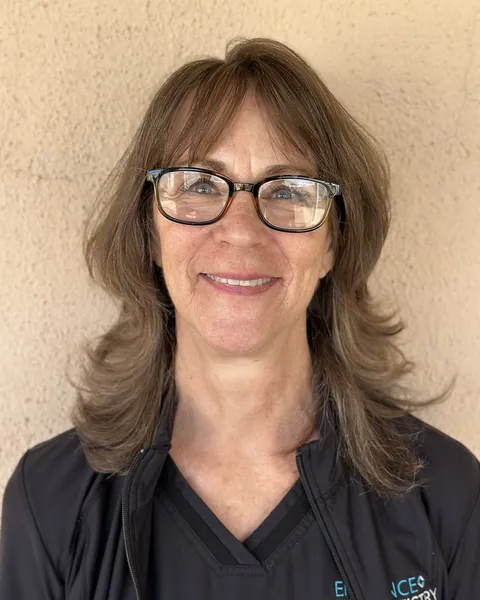
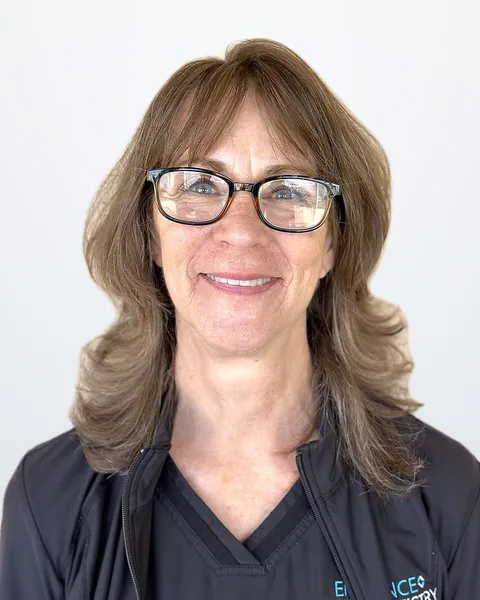
Team: three doctors in one row; rebuild with the retouched photos (stale image cache cleared)
Claude-Session: https://claude.ai/code/session_01VCZcNGLGEeznXAmsuok5gN

diff --git a/es/our-team/index.html b/es/our-team/index.html
@@ -36,7 +36,7 @@
 </header>
 <main id="main">
 <section class="phead"><div class="wrap"><nav aria-label="Ruta de navegación" class="crumbs"><ol><li><a href="/es/">Inicio</a></li><li aria-current="page">Nuestro equipo</li></ol></nav><div class="phead-row"><div><h1>Conozca a nuestro equipo</h1><p class="phead-sub">Un consultorio familiar en Main Street en St. George.</p></div>
-<div class="ph-acts"><a class="btn btn-book" href="/book"><svg aria-hidden="true" class="ic" fill="none" stroke="currentColor" stroke-linecap="round" stroke-linejoin="round" stroke-width="1.6" viewbox="0 0 24 24"><rect height="15" rx="1.5" width="17" x="3.5" y="5"></rect><path d="M3.5 10h17M8 3v4M16 3v4"></path></svg>Agendar en línea</a><a class="btn btn-line" href="tel:+14356282667"><svg aria-hidden="true" class="ic" fill="none" stroke="currentColor" stroke-linecap="round" stroke-linejoin="round" stroke-width="1.6" viewbox="0 0 24 24"><path d="M6.6 10.8a15.1 15.1 0 0 0 6.6 6.6l2.2-2.2a1 1 0 0 1 1-.25 11.4 11.4 0 0 0 3.6.57 1 1 0 0 1 1 1V20a1 1 0 0 1-1 1A17 17 0 0 1 3 4a1 1 0 0 1 1-1h3.5a1 1 0 0 1 1 1c0 1.25.2 2.45.57 3.57a1 1 0 0 1-.25 1z"></path></svg>(435) 628-2667</a></div></div></div></section><div class="wrap staff"><div class="doc-grid"><article class="doc doc-main"><div class="doc-ph"><img alt="El Dr. Mark Ence, dentista en Ence Dentistry" decoding="async" height="1125" loading="lazy" sizes="(max-width: 760px) 90vw, 360px" src="/assets/img/team-dr-mark-4x5-900.webp" srcset="/assets/img/team-dr-mark-4x5-480.webp 480w, /assets/img/team-dr-mark-4x5-900.webp 900w" width="900"/></div><div class="doc-body"><h3>Dr. Mark Ence, DDS</h3><p class="role">Dentista</p><p>Creció en Santa Clara, se graduó de Snow Canyon High y regresó a St. George para ejercer en Main Street.</p><a class="link" href="/es/dr-mark-ence/">Conozca al Dr. Mark <svg aria-hidden="true" class="ic arr" fill="none" stroke="currentColor" stroke-linecap="round" stroke-linejoin="round" stroke-width="1.6" viewbox="0 0 24 24"><path d="M5 12h14M13 6l6 6-6 6"></path></svg></a></div></article><div class="doc-more"><article class="doc"><div class="doc-ph"><img alt="El Dr. Jim Ence, dentista en Ence Dentistry" decoding="async" height="1125" loading="lazy" sizes="(max-width: 760px) 90vw, 360px" src="/assets/img/team-dr-jim-4x5-900.webp" srcset="/assets/img/team-dr-jim-4x5-480.webp 480w, /assets/img/team-dr-jim-4x5-900.webp 900w" width="900"/></div><div class="doc-body"><h3>Dr. Jim Ence</h3><p class="role">Dentista</p><p>Padre del Dr. Mark. El Dr. Mark ha disfrutado trabajar a su lado en este consultorio.</p></div></article><article class="doc"><div class="doc-ph"><img alt="El Dr. Woodrow Wagner, dentista en Ence Dentistry" decoding="async" height="1125" loading="lazy" sizes="(max-width: 760px) 90vw, 360px" src="/assets/img/team-dr-wagner-4x5-900.webp" srcset="/assets/img/team-dr-wagner-4x5-480.webp 480w, /assets/img/team-dr-wagner-4x5-900.webp 900w" width="900"/></div><div class="doc-body"><h3>Dr. Woodrow Wagner, DMD</h3><p class="role">Dentista</p><p>El Dr. Woodrow W. Wagner se graduó de Oregon Health Sciences University con su título de DMD en 1989. Ejerció en su ciudad natal, Las Vegas, Nevada, durante siete años antes de mudarse con su familia a Santa Clara, Utah, en 1996. Desde entonces ha tenido una estrecha relación de trabajo con el Dr. Jim Ence y el Dr. Mark Ence, y se siente muy contento de continuar esa colaboración ahora en Ence Dentistry.</p></div></article></div></div></div>
+<div class="ph-acts"><a class="btn btn-book" href="/book"><svg aria-hidden="true" class="ic" fill="none" stroke="currentColor" stroke-linecap="round" stroke-linejoin="round" stroke-width="1.6" viewbox="0 0 24 24"><rect height="15" rx="1.5" width="17" x="3.5" y="5"></rect><path d="M3.5 10h17M8 3v4M16 3v4"></path></svg>Agendar en línea</a><a class="btn btn-line" href="tel:+14356282667"><svg aria-hidden="true" class="ic" fill="none" stroke="currentColor" stroke-linecap="round" stroke-linejoin="round" stroke-width="1.6" viewbox="0 0 24 24"><path d="M6.6 10.8a15.1 15.1 0 0 0 6.6 6.6l2.2-2.2a1 1 0 0 1 1-.25 11.4 11.4 0 0 0 3.6.57 1 1 0 0 1 1 1V20a1 1 0 0 1-1 1A17 17 0 0 1 3 4a1 1 0 0 1 1-1h3.5a1 1 0 0 1 1 1c0 1.25.2 2.45.57 3.57a1 1 0 0 1-.25 1z"></path></svg>(435) 628-2667</a></div></div></div></section><div class="wrap staff"><div class="tm-grid doc-row"><article class="tm"><div class="tm-ph"><img alt="El Dr. Mark Ence, dentista en Ence Dentistry" decoding="async" height="1125" loading="lazy" sizes="(max-width: 700px) 90vw, (max-width: 1000px) 45vw, 380px" src="/assets/img/team-dr-mark-4x5-900.webp" srcset="/assets/img/team-dr-mark-4x5-480.webp 480w, /assets/img/team-dr-mark-4x5-900.webp 900w" width="900"/></div><div class="tm-body"><h3>Dr. Mark Ence, DDS</h3><p class="role">Dentista</p><p>Creció en Santa Clara, se graduó de Snow Canyon High y regresó a St. George para ejercer en Main Street.</p><a class="link" href="/es/dr-mark-ence/">Conozca al Dr. Mark <svg aria-hidden="true" class="ic arr" fill="none" stroke="currentColor" stroke-linecap="round" stroke-linejoin="round" stroke-width="1.6" viewbox="0 0 24 24"><path d="M5 12h14M13 6l6 6-6 6"></path></svg></a></div></article><article class="tm"><div class="tm-ph"><img alt="El Dr. Jim Ence, dentista en Ence Dentistry" decoding="async" height="1125" loading="lazy" sizes="(max-width: 700px) 90vw, (max-width: 1000px) 45vw, 380px" src="/assets/img/team-dr-jim-4x5-900.webp" srcset="/assets/img/team-dr-jim-4x5-480.webp 480w, /assets/img/team-dr-jim-4x5-900.webp 900w" width="900"/></div><div class="tm-body"><h3>Dr. Jim Ence</h3><p class="role">Dentista</p><p>Padre del Dr. Mark. El Dr. Mark ha disfrutado trabajar a su lado en este consultorio.</p></div></article><article class="tm"><div class="tm-ph"><img alt="El Dr. Woodrow Wagner, dentista en Ence Dentistry" decoding="async" height="1125" loading="lazy" sizes="(max-width: 700px) 90vw, (max-width: 1000px) 45vw, 380px" src="/assets/img/team-dr-wagner-4x5-900.webp" srcset="/assets/img/team-dr-wagner-4x5-480.webp 480w, /assets/img/team-dr-wagner-4x5-900.webp 900w" width="900"/></div><div class="tm-body"><h3>Dr. Woodrow Wagner, DMD</h3><p class="role">Dentista</p><p>El Dr. Woodrow W. Wagner se graduó de Oregon Health Sciences University con su título de DMD en 1989. Ejerció en su ciudad natal, Las Vegas, Nevada, durante siete años antes de mudarse con su familia a Santa Clara, Utah, en 1996. Desde entonces ha tenido una estrecha relación de trabajo con el Dr. Jim Ence y el Dr. Mark Ence, y se siente muy contento de continuar esa colaboración ahora en Ence Dentistry.</p></div></article></div></div>
 <section aria-labelledby="team-h" class="team"><div class="wrap"><p class="label"><svg aria-hidden="true" class="facet" viewbox="0 0 40 40"><path class="f-a" d="M20 1 1 20h8.5L20 9.5z"></path><path class="f-b" d="M20 1l19 19h-8.5L20 9.5z"></path><path class="f-c" d="M39 20 20 39v-8.5L30.5 20z"></path><path class="f-d" d="M1 20l19 19v-8.5L9.5 20z"></path></svg>Nuestro equipo</p><h2 id="team-h">Las personas que verá.</h2>
 <p class="team-sub">Nuestras higienistas, asistentes y personal de recepción. Los pacientes los mencionan por su nombre en sus reseñas, y así nos gusta.</p>
 <div class="tm-grid"><article class="tm"><div class="tm-ph"><img alt="Wendy, gerente de la oficina en Ence Dentistry" decoding="async" height="1125" loading="lazy" sizes="(max-width: 700px) 90vw, (max-width: 1000px) 45vw, 380px" src="/assets/img/team-wendy-4x5-900.webp" srcset="/assets/img/team-wendy-4x5-480.webp 480w, /assets/img/team-wendy-4x5-900.webp 900w" width="900"/></div><div class="tm-body"><h3>Wendy</h3><p class="role">Gerente de la oficina</p><p>Wendy es la gerente de la oficina de Ence Dentistry. Aporta más de 20 años de experiencia en el campo dental. Durante casi nueve años en nuestra práctica, ha ayudado a los pacientes a sentirse informados, cómodos y seguros en su cuidado dental, creando relaciones duraderas con ellos y sus familias.</p><p>Fuera del trabajo, disfruta andar en bicicleta, navegar y pasar tiempo con sus nietos.</p></div></article><article class="tm"><div class="tm-ph"><img alt="Amy, higienista dental registrada en Ence Dentistry" decoding="async" height="1125" loading="lazy" sizes="(max-width: 700px) 90vw, (max-width: 1000px) 45vw, 380px" src="/assets/img/team-amy-4x5-900.webp" srcset="/assets/img/team-amy-4x5-480.webp 480w, /assets/img/team-amy-4x5-900.webp 900w" width="900"/></div><div class="tm-body"><h3>Amy</h3><p class="role">Higienista dental registrada</p><p>Amy es una de nuestras higienistas dentales registradas en Ence Dentistry. Tiene más de 30 años de experiencia en el campo dental: comenzó como recepcionista, luego fue asistente dental y finalmente higienista, con más de 25 años de experiencia como higienista, muchos de ellos en Ence Dentistry.</p><p>Fuera de la odontología, disfruta la apicultura como pasatiempo, el senderismo, el barranquismo y viajar. También le encanta pasar tiempo con su familia.</p></div></article><article class="tm"><div class="tm-ph"><img alt="Angela Ence Ayala, higienista dental en Ence Dentistry" decoding="async" height="1125" loading="lazy" sizes="(max-width: 700px) 90vw, (max-width: 1000px) 45vw, 380px" src="/assets/img/team-angela-4x5-900.webp" srcset="/assets/img/team-angela-4x5-480.webp 480w, /assets/img/team-angela-4x5-900.webp 900w" width="900"/></div><div class="tm-body"><h3>Angela Ence Ayala</h3><p class="role">Higienista dental</p><p>A los 15 años, Angela comenzó a ayudar a su papá en el consultorio, y siguió haciéndolo hasta que fue a la escuela de higiene dental. Se graduó del programa de higiene dental de Dixie State en 2007 y trabajó tiempo completo hasta 2011; después pasó a medio tiempo al tener hijos. Ella y su esposo, Alan, tienen tres hijos.</p><p>A Angela le encanta pasar tiempo con su familia y amigos, ir al lago, nadar, los deportes y ver crecer y desarrollarse a sus hijos. Disfruta conocer a los pacientes y llegar a conocerlos mientras les limpia los dientes.</p></div></article><article class="tm"><div class="tm-ph"><img alt="Ashley Conover, higienista dental en Ence Dentistry" decoding="async" height="1125" loading="lazy" sizes="(max-width: 700px) 90vw, (max-width: 1000px) 45vw, 380px" src="/assets/img/team-ashley-4x5-900.webp" srcset="/assets/img/team-ashley-4x5-480.webp 480w, /assets/img/team-ashley-4x5-900.webp 900w" width="900"/></div><div class="tm-body"><h3>Ashley Conover</h3><p class="role">Higienista dental</p><p>Ashley se graduó del programa de higiene dental de Dixie State College en 2002 y ha trabajado medio tiempo para el Dr. Ence por más de dos décadas. Está casada con Matt y tienen tres hijos.</p><p>Le encanta hacer senderismo, pescar e ir a Lake Powell y a Joe's Valley con su familia y amigos. Ashley siempre está lista para una aventura.</p></div></article><article class="tm"><div class="tm-ph"><img alt="Heidi, higienista dental en Ence Dentistry" decoding="async" height="1125" loading="lazy" sizes="(max-width: 700px) 90vw, (max-width: 1000px) 45vw, 380px" src="/assets/img/team-heidi-4x5-900.webp" srcset="/assets/img/team-heidi-4x5-480.webp 480w, /assets/img/team-heidi-4x5-900.webp 900w" width="900"/></div><div class="tm-body"><h3>Heidi</h3><p class="role">Higienista dental</p><p>Heidi es higienista dental con 17 años de experiencia clínica y una verdadera pasión por conocer a sus pacientes y brindarles una excelente atención. Estudió en Dixie State University y en BYU–Hawaii antes de obtener su licenciatura en el Utah College of Dental Hygiene.</p><p>Fuera del consultorio, la vida es ocupada y divertida. Está casada y tiene cuatro hijos, y por lo general la encontrará animándolos en alguno de sus muchos eventos deportivos. Cuando no está en el campo de béisbol o de fútbol, le encanta viajar con amigos y familia, hacer senderismo, jugar fútbol y aprovechar al máximo cada aventura.</p></div></article><article class="tm"><div class="tm-ph"><img alt="Bethany, asistente dental certificada en Ence Dentistry" decoding="async" height="1125" loading="lazy" sizes="(max-width: 700px) 90vw, (max-width: 1000px) 45vw, 380px" src="/assets/img/team-bethany-4x5-900.webp" srcset="/assets/img/team-bethany-4x5-480.webp 480w, /assets/img/team-bethany-4x5-900.webp 900w" width="900"/></div><div class="tm-body"><h3>Bethany</h3><p class="role">Asistente dental certificada</p><p>Bethany es asistente dental certificada y lleva casi 5 años asistiendo aquí en Ence Dentistry. Comenzó su carrera en 2017 y le encanta lo que hace.</p><p>Fuera del trabajo le encanta el yoga, pasear a sus perros con su novio y viajar.</p></div></article><article class="tm"><div class="tm-ph"><img alt="Ronnie, asistente dental certificada en Ence Dentistry" decoding="async" height="1125" loading="lazy" sizes="(max-width: 700px) 90vw, (max-width: 1000px) 45vw, 380px" src="/assets/img/team-ronnie-4x5-900.webp" srcset="/assets/img/team-ronnie-4x5-480.webp 480w, /assets/img/team-ronnie-4x5-900.webp 900w" width="900"/></div><div class="tm-body"><h3>Ronnie</h3><p class="role">Asistente dental certificada</p><p>Ronnie es asistente dental certificada con más de 10 años de experiencia en el campo dental. Desde que comenzó su carrera en 2014, ha adquirido amplia experiencia práctica en procedimientos de laboratorio dental, asistencia en el sillón, coordinación de seguros y facturación. Su trayectoria variada le permite apoyar tanto a los pacientes como a los equipos dentales, ayudando a que el proceso de seguros y facturación sea lo más claro, eficiente y libre de estrés posible.</p><p>A Ronnie le gusta especialmente formar parte del ambiente sano y centrado en el paciente que Ence Dentistry ha creado. Fuera del trabajo, disfruta leer, hacer senderismo y pasar tiempo de calidad con su familia y amigos.</p></div></article><article class="tm"><div class="tm-ph"><img alt="Bonnie Potter en Ence Dentistry" decoding="async" height="1125" loading="lazy" sizes="(max-width: 700px) 90vw, (max-width: 1000px) 45vw, 380px" src="/assets/img/team-bonnie-4x5-900.webp" srcset="/assets/img/team-bonnie-4x5-480.webp 480w, /assets/img/team-bonnie-4x5-900.webp 900w" width="900"/></div><div class="tm-body"><h3>Bonnie Potter</h3><p>Bonnie creció aquí mismo, en St. George, en el consultorio dental de su papá. Ha amado la odontología la mayor parte de su vida.</p><p>Bonnie le dirá que su formación es que “ha dado la vuelta a la manzana... ¡dos veces!”. Lleva en Ence Dentistry el tiempo suficiente para saberse todos los secretos. Lo que más le gusta de estar en Ence Dentistry es la gente que conoce y el equipo con el que trabaja.</p></div></article><article class="tm"><div class="tm-ph"><img alt="Malory en Ence Dentistry" decoding="async" height="1125" loading="lazy" sizes="(max-width: 700px) 90vw, (max-width: 1000px) 45vw, 380px" src="/assets/img/team-malory-4x5-900.webp" srcset="/assets/img/team-malory-4x5-480.webp 480w, /assets/img/team-malory-4x5-900.webp 900w" width="900"/></div><div class="tm-body"><h3>Malory</h3></div></article><article class="tm"><div class="tm-ph"><img alt="Payton en Ence Dentistry" decoding="async" height="1125" loading="lazy" sizes="(max-width: 700px) 90vw, (max-width: 1000px) 45vw, 380px" src="/assets/img/team-payton-4x5-900.webp" srcset="/assets/img/team-payton-4x5-480.webp 480w, /assets/img/team-payton-4x5-900.webp 900w" width="900"/></div><div class="tm-body"><h3>Payton</h3></div></article><article class="tm"><div class="tm-ph"><img alt="Abigail en Ence Dentistry" decoding="async" height="1125" loading="lazy" sizes="(max-width: 700px) 90vw, (max-width: 1000px) 45vw, 380px" src="/assets/img/team-abigail-4x5-900.webp" srcset="/assets/img/team-abigail-4x5-480.webp 480w, /assets/img/team-abigail-4x5-900.webp 900w" width="900"/></div><div class="tm-body"><h3>Abigail</h3></div></article></div>

diff --git a/our-team/index.html b/our-team/index.html
@@ -36,7 +36,7 @@
 </header>
 <main id="main">
 <section class="phead"><div class="wrap"><nav class="crumbs" aria-label="Breadcrumb"><ol><li><a href="/">Home</a></li><li aria-current="page">Our Team</li></ol></nav><div class="phead-row"><div><h1>Meet our team</h1><p class="phead-sub">A family practice on Main Street in St. George.</p></div>
-<div class="ph-acts"><a class="btn btn-book" href="/book"><svg class="ic" viewBox="0 0 24 24" fill="none" stroke="currentColor" stroke-width="1.6" stroke-linecap="round" stroke-linejoin="round" aria-hidden="true"><rect x="3.5" y="5" width="17" height="15" rx="1.5"/><path d="M3.5 10h17M8 3v4M16 3v4"/></svg>Book online</a><a class="btn btn-line" href="tel:+14356282667"><svg class="ic" viewBox="0 0 24 24" fill="none" stroke="currentColor" stroke-width="1.6" stroke-linecap="round" stroke-linejoin="round" aria-hidden="true"><path d="M6.6 10.8a15.1 15.1 0 0 0 6.6 6.6l2.2-2.2a1 1 0 0 1 1-.25 11.4 11.4 0 0 0 3.6.57 1 1 0 0 1 1 1V20a1 1 0 0 1-1 1A17 17 0 0 1 3 4a1 1 0 0 1 1-1h3.5a1 1 0 0 1 1 1c0 1.25.2 2.45.57 3.57a1 1 0 0 1-.25 1z"/></svg>(435) 628-2667</a></div></div></div></section><div class="wrap staff"><div class="doc-grid"><article class="doc doc-main"><div class="doc-ph"><img src="/assets/img/team-dr-mark-4x5-900.webp" srcset="/assets/img/team-dr-mark-4x5-480.webp 480w, /assets/img/team-dr-mark-4x5-900.webp 900w" sizes="(max-width: 760px) 90vw, 360px" width="900" height="1125" alt="Dr. Mark Ence, dentist at Ence Dentistry" decoding="async" loading="lazy"></div><div class="doc-body"><h3>Dr. Mark Ence, DDS</h3><p class="role">Dentist</p><p>Raised in Santa Clara, a Snow Canyon High grad, and back home in St. George to practice on Main Street.</p><a class="link" href="/dr-mark-ence/">Meet Dr. Mark <svg class="ic arr" viewBox="0 0 24 24" fill="none" stroke="currentColor" stroke-width="1.6" stroke-linecap="round" stroke-linejoin="round" aria-hidden="true"><path d="M5 12h14M13 6l6 6-6 6"/></svg></a></div></article><div class="doc-more"><article class="doc"><div class="doc-ph"><img src="/assets/img/team-dr-jim-4x5-900.webp" srcset="/assets/img/team-dr-jim-4x5-480.webp 480w, /assets/img/team-dr-jim-4x5-900.webp 900w" sizes="(max-width: 760px) 90vw, 360px" width="900" height="1125" alt="Dr. Jim Ence, dentist at Ence Dentistry" decoding="async" loading="lazy"></div><div class="doc-body"><h3>Dr. Jim Ence</h3><p class="role">Dentist</p><p>Dr. Mark&#x27;s father. Dr. Mark has enjoyed working alongside him in this office.</p></div></article><article class="doc"><div class="doc-ph"><img src="/assets/img/team-dr-wagner-4x5-900.webp" srcset="/assets/img/team-dr-wagner-4x5-480.webp 480w, /assets/img/team-dr-wagner-4x5-900.webp 900w" sizes="(max-width: 760px) 90vw, 360px" width="900" height="1125" alt="Dr. Woodrow Wagner, dentist at Ence Dentistry" decoding="async" loading="lazy"></div><div class="doc-body"><h3>Dr. Woodrow Wagner, DMD</h3><p class="role">Dentist</p><p>Dr. Woodrow W. Wagner graduated from Oregon Health Sciences University with his DMD degree in 1989. He practiced in his hometown of Las Vegas, Nevada, for seven years before moving with his family to Santa Clara, Utah, in 1996. He has had a close working relationship with Dr. Jim and Dr. Mark Ence since then, and he is very pleased to continue that collaboration now at Ence Dentistry.</p></div></article></div></div></div>
+<div class="ph-acts"><a class="btn btn-book" href="/book"><svg class="ic" viewBox="0 0 24 24" fill="none" stroke="currentColor" stroke-width="1.6" stroke-linecap="round" stroke-linejoin="round" aria-hidden="true"><rect x="3.5" y="5" width="17" height="15" rx="1.5"/><path d="M3.5 10h17M8 3v4M16 3v4"/></svg>Book online</a><a class="btn btn-line" href="tel:+14356282667"><svg class="ic" viewBox="0 0 24 24" fill="none" stroke="currentColor" stroke-width="1.6" stroke-linecap="round" stroke-linejoin="round" aria-hidden="true"><path d="M6.6 10.8a15.1 15.1 0 0 0 6.6 6.6l2.2-2.2a1 1 0 0 1 1-.25 11.4 11.4 0 0 0 3.6.57 1 1 0 0 1 1 1V20a1 1 0 0 1-1 1A17 17 0 0 1 3 4a1 1 0 0 1 1-1h3.5a1 1 0 0 1 1 1c0 1.25.2 2.45.57 3.57a1 1 0 0 1-.25 1z"/></svg>(435) 628-2667</a></div></div></div></section><div class="wrap staff"><div class="tm-grid doc-row"><article class="tm"><div class="tm-ph"><img src="/assets/img/team-dr-mark-4x5-900.webp" srcset="/assets/img/team-dr-mark-4x5-480.webp 480w, /assets/img/team-dr-mark-4x5-900.webp 900w" sizes="(max-width: 700px) 90vw, (max-width: 1000px) 45vw, 380px" width="900" height="1125" alt="Dr. Mark Ence, dentist at Ence Dentistry" decoding="async" loading="lazy"></div><div class="tm-body"><h3>Dr. Mark Ence, DDS</h3><p class="role">Dentist</p><p>Raised in Santa Clara, a Snow Canyon High grad, and back home in St. George to practice on Main Street.</p><a class="link" href="/dr-mark-ence/">Meet Dr. Mark <svg class="ic arr" viewBox="0 0 24 24" fill="none" stroke="currentColor" stroke-width="1.6" stroke-linecap="round" stroke-linejoin="round" aria-hidden="true"><path d="M5 12h14M13 6l6 6-6 6"/></svg></a></div></article><article class="tm"><div class="tm-ph"><img src="/assets/img/team-dr-jim-4x5-900.webp" srcset="/assets/img/team-dr-jim-4x5-480.webp 480w, /assets/img/team-dr-jim-4x5-900.webp 900w" sizes="(max-width: 700px) 90vw, (max-width: 1000px) 45vw, 380px" width="900" height="1125" alt="Dr. Jim Ence, dentist at Ence Dentistry" decoding="async" loading="lazy"></div><div class="tm-body"><h3>Dr. Jim Ence</h3><p class="role">Dentist</p><p>Dr. Mark&#x27;s father. Dr. Mark has enjoyed working alongside him in this office.</p></div></article><article class="tm"><div class="tm-ph"><img src="/assets/img/team-dr-wagner-4x5-900.webp" srcset="/assets/img/team-dr-wagner-4x5-480.webp 480w, /assets/img/team-dr-wagner-4x5-900.webp 900w" sizes="(max-width: 700px) 90vw, (max-width: 1000px) 45vw, 380px" width="900" height="1125" alt="Dr. Woodrow Wagner, dentist at Ence Dentistry" decoding="async" loading="lazy"></div><div class="tm-body"><h3>Dr. Woodrow Wagner, DMD</h3><p class="role">Dentist</p><p>Dr. Woodrow W. Wagner graduated from Oregon Health Sciences University with his DMD degree in 1989. He practiced in his hometown of Las Vegas, Nevada, for seven years before moving with his family to Santa Clara, Utah, in 1996. He has had a close working relationship with Dr. Jim and Dr. Mark Ence since then, and he is very pleased to continue that collaboration now at Ence Dentistry.</p></div></article></div></div>
 <section class="team" aria-labelledby="team-h"><div class="wrap"><p class="label"><svg class="facet" viewBox="0 0 40 40" aria-hidden="true"><path d="M20 1 1 20h8.5L20 9.5z" class="f-a"/><path d="M20 1l19 19h-8.5L20 9.5z" class="f-b"/><path d="M39 20 20 39v-8.5L30.5 20z" class="f-c"/><path d="M1 20l19 19v-8.5L9.5 20z" class="f-d"/></svg>Our team</p><h2 id="team-h">The people you'll see.</h2>
 <p class="team-sub">Our hygienists, assistants and front-desk team. Patients mention them by name in their reviews, and that's how we like it.</p>
 <div class="tm-grid"><article class="tm"><div class="tm-ph"><img src="/assets/img/team-wendy-4x5-900.webp" srcset="/assets/img/team-wendy-4x5-480.webp 480w, /assets/img/team-wendy-4x5-900.webp 900w" sizes="(max-width: 700px) 90vw, (max-width: 1000px) 45vw, 380px" width="900" height="1125" alt="Wendy, Office Manager at Ence Dentistry" decoding="async" loading="lazy"></div><div class="tm-body"><h3>Wendy</h3><p class="role">Office Manager</p><p>Wendy is the Office Manager at Ence Dentistry. She brings over 20 years of experience in the dental field. For nearly nine years here in our practice, she&#x27;s helped patients feel informed, comfortable, and confident in their dental care while building lasting relationships with them and their families.</p><p>Outside of work, she enjoys biking, boating, and spending time with her grandchildren.</p></div></article><article class="tm"><div class="tm-ph"><img src="/assets/img/team-amy-4x5-900.webp" srcset="/assets/img/team-amy-4x5-480.webp 480w, /assets/img/team-amy-4x5-900.webp 900w" sizes="(max-width: 700px) 90vw, (max-width: 1000px) 45vw, 380px" width="900" height="1125" alt="Amy, Registered Dental Hygienist at Ence Dentistry" decoding="async" loading="lazy"></div><div class="tm-body"><h3>Amy</h3><p class="role">Registered Dental Hygienist</p><p>Amy is one of our registered dental hygienists at Ence Dentistry. She has over 30 years of experience in the dental field, starting as a receptionist and then dental assistant and finally as a hygienist with over 25 years of experience as a hygienist, many of those years at Ence Dentistry.</p><p>Outside of dentistry, she enjoys hobby bee keeping, hiking, canyoneering and travel. She also loves spending time with her family.</p></div></article><article class="tm"><div class="tm-ph"><img src="/assets/img/team-angela-4x5-900.webp" srcset="/assets/img/team-angela-4x5-480.webp 480w, /assets/img/team-angela-4x5-900.webp 900w" sizes="(max-width: 700px) 90vw, (max-width: 1000px) 45vw, 380px" width="900" height="1125" alt="Angela Ence Ayala, Dental Hygienist at Ence Dentistry" decoding="async" loading="lazy"></div><div class="tm-body"><h3>Angela Ence Ayala</h3><p class="role">Dental Hygienist</p><p>At 15, Angela started helping her dad at the office, and she kept at it until she went to dental hygiene school. She graduated from the Dixie State dental hygiene program in 2007 and worked full time until 2011, then went part time after having kids. She and her husband, Alan, have three children.</p><p>Angela loves spending time with family and friends, going to the lake, swimming, sports, and watching her kids grow and develop. She enjoys meeting patients and getting to know them all while cleaning their teeth.</p></div></article><article class="tm"><div class="tm-ph"><img src="/assets/img/team-ashley-4x5-900.webp" srcset="/assets/img/team-ashley-4x5-480.webp 480w, /assets/img/team-ashley-4x5-900.webp 900w" sizes="(max-width: 700px) 90vw, (max-width: 1000px) 45vw, 380px" width="900" height="1125" alt="Ashley Conover, Dental Hygienist at Ence Dentistry" decoding="async" loading="lazy"></div><div class="tm-body"><h3>Ashley Conover</h3><p class="role">Dental Hygienist</p><p>Ashley graduated from the Dixie State College dental hygiene program in 2002 and has worked part time for Dr. Ence for over two decades. She is married to Matt, and they have three kids.</p><p>She loves to hike, fish, and go to Lake Powell and Joe&#x27;s Valley with family and friends. Ashley is always up for an adventure.</p></div></article><article class="tm"><div class="tm-ph"><img src="/assets/img/team-heidi-4x5-900.webp" srcset="/assets/img/team-heidi-4x5-480.webp 480w, /assets/img/team-heidi-4x5-900.webp 900w" sizes="(max-width: 700px) 90vw, (max-width: 1000px) 45vw, 380px" width="900" height="1125" alt="Heidi, Dental Hygienist at Ence Dentistry" decoding="async" loading="lazy"></div><div class="tm-body"><h3>Heidi</h3><p class="role">Dental Hygienist</p><p>Heidi is a dental hygienist with 17 years of clinical experience and a genuine passion for getting to know her patients and giving them great care. She studied at Dixie State University and BYU–Hawaii before earning her bachelor&#x27;s degree from the Utah College of Dental Hygiene.</p><p>Outside of the office, life is busy and fun. She is married with four kids, and you can usually find her cheering them on at one of their many sporting events. When she&#x27;s not at the ball field or soccer field, she loves traveling with friends and family, hiking, playing soccer, and making the most of every adventure.</p></div></article><article class="tm"><div class="tm-ph"><img src="/assets/img/team-bethany-4x5-900.webp" srcset="/assets/img/team-bethany-4x5-480.webp 480w, /assets/img/team-bethany-4x5-900.webp 900w" sizes="(max-width: 700px) 90vw, (max-width: 1000px) 45vw, 380px" width="900" height="1125" alt="Bethany, Certified Dental Assistant at Ence Dentistry" decoding="async" loading="lazy"></div><div class="tm-body"><h3>Bethany</h3><p class="role">Certified Dental Assistant</p><p>Bethany is a certified dental assistant and has been assisting here at Ence Dentistry going on 5 years now. She started her career in 2017 and loves what she does.</p><p>Outside of work she loves yoga, walking her dogs with her boyfriend and traveling.</p></div></article><article class="tm"><div class="tm-ph"><img src="/assets/img/team-ronnie-4x5-900.webp" srcset="/assets/img/team-ronnie-4x5-480.webp 480w, /assets/img/team-ronnie-4x5-900.webp 900w" sizes="(max-width: 700px) 90vw, (max-width: 1000px) 45vw, 380px" width="900" height="1125" alt="Ronnie, Certified Dental Assistant at Ence Dentistry" decoding="async" loading="lazy"></div><div class="tm-body"><h3>Ronnie</h3><p class="role">Certified Dental Assistant</p><p>Ronnie is a certified dental assistant with more than 10 years of experience in the dental field. Since beginning her career in 2014, she has gained extensive hands-on experience in dental laboratory procedures, chairside assisting, insurance coordination, and billing. Her diverse background enables her to support both patients and dental teams by helping make the insurance and billing process as clear, efficient, and stress-free as possible.</p><p>Ronnie especially enjoys being part of the wholesome, patient-centered environment that Ence Dentistry has created. Outside of work, she enjoys reading, hiking, and spending quality time with her family and friends.</p></div></article><article class="tm"><div class="tm-ph"><img src="/assets/img/team-bonnie-4x5-900.webp" srcset="/assets/img/team-bonnie-4x5-480.webp 480w, /assets/img/team-bonnie-4x5-900.webp 900w" sizes="(max-width: 700px) 90vw, (max-width: 1000px) 45vw, 380px" width="900" height="1125" alt="Bonnie Potter at Ence Dentistry" decoding="async" loading="lazy"></div><div class="tm-body"><h3>Bonnie Potter</h3><p>Bonnie grew up right here in St. George, in her dad&#x27;s dental practice. She&#x27;s loved dentistry most of her life.</p><p>Bonnie will tell you her education is that she&#x27;s “been around the block...twice!” She has been with Ence Dentistry long enough to know all the secrets. Her favorite part of being at Ence Dentistry is the people she meets and the team she works with.</p></div></article><article class="tm"><div class="tm-ph"><img src="/assets/img/team-malory-4x5-900.webp" srcset="/assets/img/team-malory-4x5-480.webp 480w, /assets/img/team-malory-4x5-900.webp 900w" sizes="(max-width: 700px) 90vw, (max-width: 1000px) 45vw, 380px" width="900" height="1125" alt="Malory at Ence Dentistry" decoding="async" loading="lazy"></div><div class="tm-body"><h3>Malory</h3></div></article><article class="tm"><div class="tm-ph"><img src="/assets/img/team-payton-4x5-900.webp" srcset="/assets/img/team-payton-4x5-480.webp 480w, /assets/img/team-payton-4x5-900.webp 900w" sizes="(max-width: 700px) 90vw, (max-width: 1000px) 45vw, 380px" width="900" height="1125" alt="Payton at Ence Dentistry" decoding="async" loading="lazy"></div><div class="tm-body"><h3>Payton</h3></div></article><article class="tm"><div class="tm-ph"><img src="/assets/img/team-abigail-4x5-900.webp" srcset="/assets/img/team-abigail-4x5-480.webp 480w, /assets/img/team-abigail-4x5-900.webp 900w" sizes="(max-width: 700px) 90vw, (max-width: 1000px) 45vw, 380px" width="900" height="1125" alt="Abigail at Ence Dentistry" decoding="async" loading="lazy"></div><div class="tm-body"><h3>Abigail</h3></div></article></div>

diff --git a/es/index.html b/es/index.html
@@ -50,7 +50,7 @@
 </div></section>
 <section aria-labelledby="docs-h" class="docs"><div class="wrap">
 <div class="sec-head"><div><p class="label"><svg aria-hidden="true" class="facet" viewbox="0 0 40 40"><path class="f-a" d="M20 1 1 20h8.5L20 9.5z"></path><path class="f-b" d="M20 1l19 19h-8.5L20 9.5z"></path><path class="f-c" d="M39 20 20 39v-8.5L30.5 20z"></path><path class="f-d" d="M1 20l19 19v-8.5L9.5 20z"></path></svg>Nuestros doctores</p><h2 id="docs-h">Conozca a sus dentistas.</h2></div><a class="link" href="/es/our-team/">Conozca a nuestros doctores <svg aria-hidden="true" class="ic arr" fill="none" stroke="currentColor" stroke-linecap="round" stroke-linejoin="round" stroke-width="1.6" viewbox="0 0 24 24"><path d="M5 12h14M13 6l6 6-6 6"></path></svg></a></div>
-<div class="doc-grid"><article class="doc doc-main"><div class="doc-ph"><img alt="El Dr. Mark Ence, dentista en Ence Dentistry" decoding="async" height="1125" loading="lazy" sizes="(max-width: 760px) 90vw, 360px" src="/assets/img/team-dr-mark-4x5-900.webp" srcset="/assets/img/team-dr-mark-4x5-480.webp 480w, /assets/img/team-dr-mark-4x5-900.webp 900w" width="900"/></div><div class="doc-body"><h3>Dr. Mark Ence, DDS</h3><p class="role">Dentista</p><p>Creció en Santa Clara, se graduó de Snow Canyon High y regresó a St. George para ejercer en Main Street.</p><a class="link" href="/es/dr-mark-ence/">Conozca al Dr. Mark <svg aria-hidden="true" class="ic arr" fill="none" stroke="currentColor" stroke-linecap="round" stroke-linejoin="round" stroke-width="1.6" viewbox="0 0 24 24"><path d="M5 12h14M13 6l6 6-6 6"></path></svg></a></div></article><div class="doc-more"><article class="doc"><div class="doc-ph"><img alt="El Dr. Jim Ence, dentista en Ence Dentistry" decoding="async" height="1125" loading="lazy" sizes="(max-width: 760px) 90vw, 360px" src="/assets/img/team-dr-jim-4x5-900.webp" srcset="/assets/img/team-dr-jim-4x5-480.webp 480w, /assets/img/team-dr-jim-4x5-900.webp 900w" width="900"/></div><div class="doc-body"><h3>Dr. Jim Ence</h3><p class="role">Dentista</p><p>Padre del Dr. Mark. El Dr. Mark ha disfrutado trabajar a su lado en este consultorio.</p></div></article><article class="doc"><div class="doc-ph"><img alt="El Dr. Woodrow Wagner, dentista en Ence Dentistry" decoding="async" height="1125" loading="lazy" sizes="(max-width: 760px) 90vw, 360px" src="/assets/img/team-dr-wagner-4x5-900.webp" srcset="/assets/img/team-dr-wagner-4x5-480.webp 480w, /assets/img/team-dr-wagner-4x5-900.webp 900w" width="900"/></div><div class="doc-body"><h3>Dr. Woodrow Wagner, DMD</h3><p class="role">Dentista</p><p>El Dr. Woodrow W. Wagner se graduó de Oregon Health Sciences University con su título de DMD en 1989. Ejerció en su ciudad natal, Las Vegas, Nevada, durante siete años antes de mudarse con su familia a Santa Clara, Utah, en 1996. Desde entonces ha tenido una estrecha relación de trabajo con el Dr. Jim Ence y el Dr. Mark Ence, y se siente muy contento de continuar esa colaboración ahora en Ence Dentistry.</p></div></article></div></div>
+<div class="tm-grid doc-row"><article class="tm"><div class="tm-ph"><img alt="El Dr. Mark Ence, dentista en Ence Dentistry" decoding="async" height="1125" loading="lazy" sizes="(max-width: 700px) 90vw, (max-width: 1000px) 45vw, 380px" src="/assets/img/team-dr-mark-4x5-900.webp" srcset="/assets/img/team-dr-mark-4x5-480.webp 480w, /assets/img/team-dr-mark-4x5-900.webp 900w" width="900"/></div><div class="tm-body"><h3>Dr. Mark Ence, DDS</h3><p class="role">Dentista</p><p>Creció en Santa Clara, se graduó de Snow Canyon High y regresó a St. George para ejercer en Main Street.</p><a class="link" href="/es/dr-mark-ence/">Conozca al Dr. Mark <svg aria-hidden="true" class="ic arr" fill="none" stroke="currentColor" stroke-linecap="round" stroke-linejoin="round" stroke-width="1.6" viewbox="0 0 24 24"><path d="M5 12h14M13 6l6 6-6 6"></path></svg></a></div></article><article class="tm"><div class="tm-ph"><img alt="El Dr. Jim Ence, dentista en Ence Dentistry" decoding="async" height="1125" loading="lazy" sizes="(max-width: 700px) 90vw, (max-width: 1000px) 45vw, 380px" src="/assets/img/team-dr-jim-4x5-900.webp" srcset="/assets/img/team-dr-jim-4x5-480.webp 480w, /assets/img/team-dr-jim-4x5-900.webp 900w" width="900"/></div><div class="tm-body"><h3>Dr. Jim Ence</h3><p class="role">Dentista</p><p>Padre del Dr. Mark. El Dr. Mark ha disfrutado trabajar a su lado en este consultorio.</p></div></article><article class="tm"><div class="tm-ph"><img alt="El Dr. Woodrow Wagner, dentista en Ence Dentistry" decoding="async" height="1125" loading="lazy" sizes="(max-width: 700px) 90vw, (max-width: 1000px) 45vw, 380px" src="/assets/img/team-dr-wagner-4x5-900.webp" srcset="/assets/img/team-dr-wagner-4x5-480.webp 480w, /assets/img/team-dr-wagner-4x5-900.webp 900w" width="900"/></div><div class="tm-body"><h3>Dr. Woodrow Wagner, DMD</h3><p class="role">Dentista</p><p>El Dr. Woodrow W. Wagner se graduó de Oregon Health Sciences University con su título de DMD en 1989. Ejerció en su ciudad natal, Las Vegas, Nevada, durante siete años antes de mudarse con su familia a Santa Clara, Utah, en 1996. Desde entonces ha tenido una estrecha relación de trabajo con el Dr. Jim Ence y el Dr. Mark Ence, y se siente muy contento de continuar esa colaboración ahora en Ence Dentistry.</p></div></article></div>
 </div></section>
 <section aria-labelledby="care-h" class="care"><div class="wrap">
 <div class="sec-head"><div><p class="label"><svg aria-hidden="true" class="facet" viewbox="0 0 40 40"><path class="f-a" d="M20 1 1 20h8.5L20 9.5z"></path><path class="f-b" d="M20 1l19 19h-8.5L20 9.5z"></path><path class="f-c" d="M39 20 20 39v-8.5L30.5 20z"></path><path class="f-d" d="M1 20l19 19v-8.5L9.5 20z"></path></svg>Servicios que ofrecemos</p><h2 id="care-h">Todo lo que su sonrisa necesita. En un solo lugar.</h2></div><a class="link" href="/es/dental-services-in-st-george-ut/">Todos los servicios <svg aria-hidden="true" class="ic arr" fill="none" stroke="currentColor" stroke-linecap="round" stroke-linejoin="round" stroke-width="1.6" viewbox="0 0 24 24"><path d="M5 12h14M13 6l6 6-6 6"></path></svg></a></div>

diff --git a/index.html b/index.html
@@ -53,7 +53,7 @@
 
 <section class="docs" aria-labelledby="docs-h"><div class="wrap">
   <div class="sec-head"><div><p class="label"><svg class="facet" viewBox="0 0 40 40" aria-hidden="true"><path d="M20 1 1 20h8.5L20 9.5z" class="f-a"/><path d="M20 1l19 19h-8.5L20 9.5z" class="f-b"/><path d="M39 20 20 39v-8.5L30.5 20z" class="f-c"/><path d="M1 20l19 19v-8.5L9.5 20z" class="f-d"/></svg>Our doctors</p><h2 id="docs-h">Meet your dentists.</h2></div><a class="link" href="/our-team/">Meet our doctors <svg class="ic arr" viewBox="0 0 24 24" fill="none" stroke="currentColor" stroke-width="1.6" stroke-linecap="round" stroke-linejoin="round" aria-hidden="true"><path d="M5 12h14M13 6l6 6-6 6"/></svg></a></div>
-  <div class="doc-grid"><article class="doc doc-main"><div class="doc-ph"><img src="/assets/img/team-dr-mark-4x5-900.webp" srcset="/assets/img/team-dr-mark-4x5-480.webp 480w, /assets/img/team-dr-mark-4x5-900.webp 900w" sizes="(max-width: 760px) 90vw, 360px" width="900" height="1125" alt="Dr. Mark Ence, dentist at Ence Dentistry" decoding="async" loading="lazy"></div><div class="doc-body"><h3>Dr. Mark Ence, DDS</h3><p class="role">Dentist</p><p>Raised in Santa Clara, a Snow Canyon High grad, and back home in St. George to practice on Main Street.</p><a class="link" href="/dr-mark-ence/">Meet Dr. Mark <svg class="ic arr" viewBox="0 0 24 24" fill="none" stroke="currentColor" stroke-width="1.6" stroke-linecap="round" stroke-linejoin="round" aria-hidden="true"><path d="M5 12h14M13 6l6 6-6 6"/></svg></a></div></article><div class="doc-more"><article class="doc"><div class="doc-ph"><img src="/assets/img/team-dr-jim-4x5-900.webp" srcset="/assets/img/team-dr-jim-4x5-480.webp 480w, /assets/img/team-dr-jim-4x5-900.webp 900w" sizes="(max-width: 760px) 90vw, 360px" width="900" height="1125" alt="Dr. Jim Ence, dentist at Ence Dentistry" decoding="async" loading="lazy"></div><div class="doc-body"><h3>Dr. Jim Ence</h3><p class="role">Dentist</p><p>Dr. Mark&#x27;s father. Dr. Mark has enjoyed working alongside him in this office.</p></div></article><article class="doc"><div class="doc-ph"><img src="/assets/img/team-dr-wagner-4x5-900.webp" srcset="/assets/img/team-dr-wagner-4x5-480.webp 480w, /assets/img/team-dr-wagner-4x5-900.webp 900w" sizes="(max-width: 760px) 90vw, 360px" width="900" height="1125" alt="Dr. Woodrow Wagner, dentist at Ence Dentistry" decoding="async" loading="lazy"></div><div class="doc-body"><h3>Dr. Woodrow Wagner, DMD</h3><p class="role">Dentist</p><p>Dr. Woodrow W. Wagner graduated from Oregon Health Sciences University with his DMD degree in 1989. He practiced in his hometown of Las Vegas, Nevada, for seven years before moving with his family to Santa Clara, Utah, in 1996. He has had a close working relationship with Dr. Jim and Dr. Mark Ence since then, and he is very pleased to continue that collaboration now at Ence Dentistry.</p></div></article></div></div>
+  <div class="tm-grid doc-row"><article class="tm"><div class="tm-ph"><img src="/assets/img/team-dr-mark-4x5-900.webp" srcset="/assets/img/team-dr-mark-4x5-480.webp 480w, /assets/img/team-dr-mark-4x5-900.webp 900w" sizes="(max-width: 700px) 90vw, (max-width: 1000px) 45vw, 380px" width="900" height="1125" alt="Dr. Mark Ence, dentist at Ence Dentistry" decoding="async" loading="lazy"></div><div class="tm-body"><h3>Dr. Mark Ence, DDS</h3><p class="role">Dentist</p><p>Raised in Santa Clara, a Snow Canyon High grad, and back home in St. George to practice on Main Street.</p><a class="link" href="/dr-mark-ence/">Meet Dr. Mark <svg class="ic arr" viewBox="0 0 24 24" fill="none" stroke="currentColor" stroke-width="1.6" stroke-linecap="round" stroke-linejoin="round" aria-hidden="true"><path d="M5 12h14M13 6l6 6-6 6"/></svg></a></div></article><article class="tm"><div class="tm-ph"><img src="/assets/img/team-dr-jim-4x5-900.webp" srcset="/assets/img/team-dr-jim-4x5-480.webp 480w, /assets/img/team-dr-jim-4x5-900.webp 900w" sizes="(max-width: 700px) 90vw, (max-width: 1000px) 45vw, 380px" width="900" height="1125" alt="Dr. Jim Ence, dentist at Ence Dentistry" decoding="async" loading="lazy"></div><div class="tm-body"><h3>Dr. Jim Ence</h3><p class="role">Dentist</p><p>Dr. Mark&#x27;s father. Dr. Mark has enjoyed working alongside him in this office.</p></div></article><article class="tm"><div class="tm-ph"><img src="/assets/img/team-dr-wagner-4x5-900.webp" srcset="/assets/img/team-dr-wagner-4x5-480.webp 480w, /assets/img/team-dr-wagner-4x5-900.webp 900w" sizes="(max-width: 700px) 90vw, (max-width: 1000px) 45vw, 380px" width="900" height="1125" alt="Dr. Woodrow Wagner, dentist at Ence Dentistry" decoding="async" loading="lazy"></div><div class="tm-body"><h3>Dr. Woodrow Wagner, DMD</h3><p class="role">Dentist</p><p>Dr. Woodrow W. Wagner graduated from Oregon Health Sciences University with his DMD degree in 1989. He practiced in his hometown of Las Vegas, Nevada, for seven years before moving with his family to Santa Clara, Utah, in 1996. He has had a close working relationship with Dr. Jim and Dr. Mark Ence since then, and he is very pleased to continue that collaboration now at Ence Dentistry.</p></div></article></div>
 </div></section>
 
 

diff --git a/assets/site.css b/assets/site.css
@@ -419,3 +419,5 @@ section { scroll-margin-top: 80px; }
 @media (max-width: 1000px) { .tm-grid { grid-template-columns: repeat(2, 1fr); } }
 @media (max-width: 640px) { .tm-grid { grid-template-columns: 1fr; } }
 .staff .doc-grid { align-items: start; }
+.doc-row { margin-bottom: 0; }
+.tm-body .link { display: inline-flex; margin-top: 8px; }
